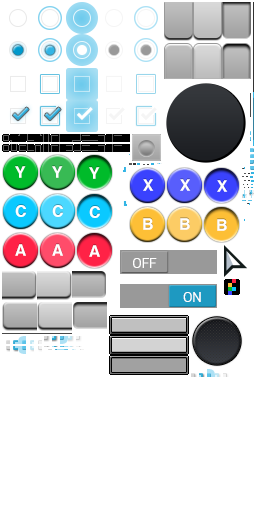
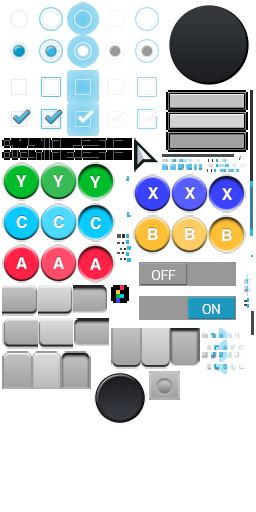
FlxUI Optimize repeat drawing + javadocs.

diff --git a/flixel-core/src/org/flixel/ui/FlxNinePatch.java b/flixel-core/src/org/flixel/ui/FlxNinePatch.java
@@ -6,7 +6,9 @@ import org.flixel.FlxSprite;
 import com.badlogic.gdx.scenes.scene2d.utils.TiledDrawable;
 
 /**
- *
+ * The <code>NinePatch</code> for drawing 9-patches.
+ * It can repeat pattern, but make it large enough so it won't affect too much performance.
+ * 
  * @author Ka Wing Chin
  */
 public class FlxNinePatch extends FlxSprite
@@ -21,9 +23,36 @@ public class FlxNinePatch extends FlxSprite
 	public static final int BOTTOM_CENTER = 7;
 	public static final int BOTTOM_RIGHT = 8;
 	
+	/**
+	 * The position of the nine patch.
+	 */
 	public int position;
 	
+	/**
+	 * Draws a TextureRegion repeatedly to fill the area, instead of stretching it.
+	 */
 	private TiledDrawable _tiled;
+	/**
+	 * Whether the pattern should repeat or not.
+	 */
+	private boolean _repeat;
+	
+	/**
+	 * Create a new <code>FlxNinePatch</code> object.
+	 * @param Position	One of the 9 positions of the ninepatch, e.g. <code>FlxNinePatch.TOP_LEFT</code>.
+	 * @param Img		The image of the nine patch.
+	 * @param Width		The width of the nine patch.
+	 * @param Height	The height of the nine patch.
+	 * @param Repeat	Repeats the pattern of a ninepatch. Default is false.
+	 */
+	public FlxNinePatch(int Position, String Img, int Width, int Height, boolean Repeat)
+	{
+		super();
+		loadGraphic(Img, true, false, Width, Height);
+		_repeat = Repeat;
+		if(_repeat)
+			_tiled = new TiledDrawable(framePixels);
+	}
 	
 	/**
 	 * Create a new <code>FlxNinePatch</code> object.
@@ -34,15 +63,22 @@ public class FlxNinePatch extends FlxSprite
 	 */
 	public FlxNinePatch(int Position, String Img, int Width, int Height)
 	{
-		super();
-		loadGraphic(Img, true, false, Width, Height);
-		_tiled = new TiledDrawable(framePixels);
+		this(Position, Img, Width, Height, false);
 	}
 	
 	@Override
 	public void renderSprite()
 	{
-		_tiled.draw(FlxG.batch, x, y, width, height);
+		if(_repeat)
+			_tiled.draw(FlxG.batch, x, y, width, height);
+		else
+			FlxG.batch.draw(framePixels, x, y, width, height);
+	}
+	
+	@Override
+	public void destroy()
+	{
+		super.destroy();
+		_tiled = null;
 	}
 }
-

diff --git a/flixel-core/src/org/flixel/ui/FlxUISkin.java b/flixel-core/src/org/flixel/ui/FlxUISkin.java
@@ -175,8 +175,9 @@ public class FlxUISkin
 	 * @param Img			The image of the ninepatch.
 	 * @param Width			The width of the image.
 	 * @param Height		The height of the image.
+	 * @param Repeat		Repeats the pattern of a ninepatch. Default is false.
 	 */
-	public void setNinePatch(int Position, String Img, int Width, int Height)
+	public void setNinePatch(int Position, String Img, int Width, int Height, boolean Repeat)
 	{
 		if(patches == null)
 		{
@@ -184,9 +185,19 @@ public class FlxUISkin
 			for(int i = 0; i < 9; i++)
 				patches.add(null);
 		}
-		patches.set(Position, new FlxNinePatch(Position, Img, Width, Height));
-		if(Position == FlxNinePatch.MIDDLE_CENTER)
-			setImage(Img, Width, Height);
+		patches.set(Position, new FlxNinePatch(Position, Img, Width, Height, Repeat));
+	}
+	
+	/**
+	 * Set a ninepatch.
+	 * @param Position		The position of the ninepatch (e.g. NinePatch.TOP_LEFT).
+	 * @param Img			The image of the ninepatch.
+	 * @param Width			The width of the image.
+	 * @param Height		The height of the image.
+	 */
+	public void setNinePatch(int Position, String Img, int Width, int Height)
+	{
+		setNinePatch(Position, Img, Width, Height, false);
 	}
 	
 	/**

diff --git a/flixel-core/src/org/flixel/ui/FlxLabel.java b/flixel-core/src/org/flixel/ui/FlxLabel.java
@@ -14,9 +14,7 @@ public class FlxLabel extends FlxUIComponent
 	private final String ImgLabelTopCenter = "org/flixel/data/pack:label_topcenter";
 	private final String ImgLabelTopRight = "org/flixel/data/pack:label_topright";
 	private final String ImgLabelMiddleLeft = "org/flixel/data/pack:label_middleleft";
-//	private final String ImgLabelMiddleCenter = "org/flixel/data/pack:label_middlecenter";
-	// TODO: use this until there is fix for 1 x 1 px for texture region.
-	private final String ImgLabelMiddleCenter = "org/flixel/data/holo_dark/label_middlecenter.png";
+	private final String ImgLabelMiddleCenter = "org/flixel/data/pack:label_middlecenter";
 	private final String ImgLabelMiddleRight = "org/flixel/data/pack:label_middleright";
 	private final String ImgLabelBottomLeft = "org/flixel/data/pack:label_bottomleft";
 	private final String ImgLabelBottomCenter = "org/flixel/data/pack:label_bottomcenter";

diff --git a/flixel-core/src/org/flixel/ui/FlxUIComponent.java b/flixel-core/src/org/flixel/ui/FlxUIComponent.java
@@ -223,8 +223,14 @@ public abstract class FlxUIComponent extends FlxSprite
 		this(X, Y, Skin, null, 0, 0);
 	}
 	
+	/**
+	 * Cache the width and height of a single patch. Just for performance sake.
+	 * @param patch		A single nine patch.
+	 */
 	private void setPatchDimension(FlxNinePatch patch)
 	{
+		if(patch == null)
+			return;
 		if(_patchWidth == 0) _patchWidth = patch.width;
 		if(_patchHeight == 0) _patchHeight = patch.height;
 	}
